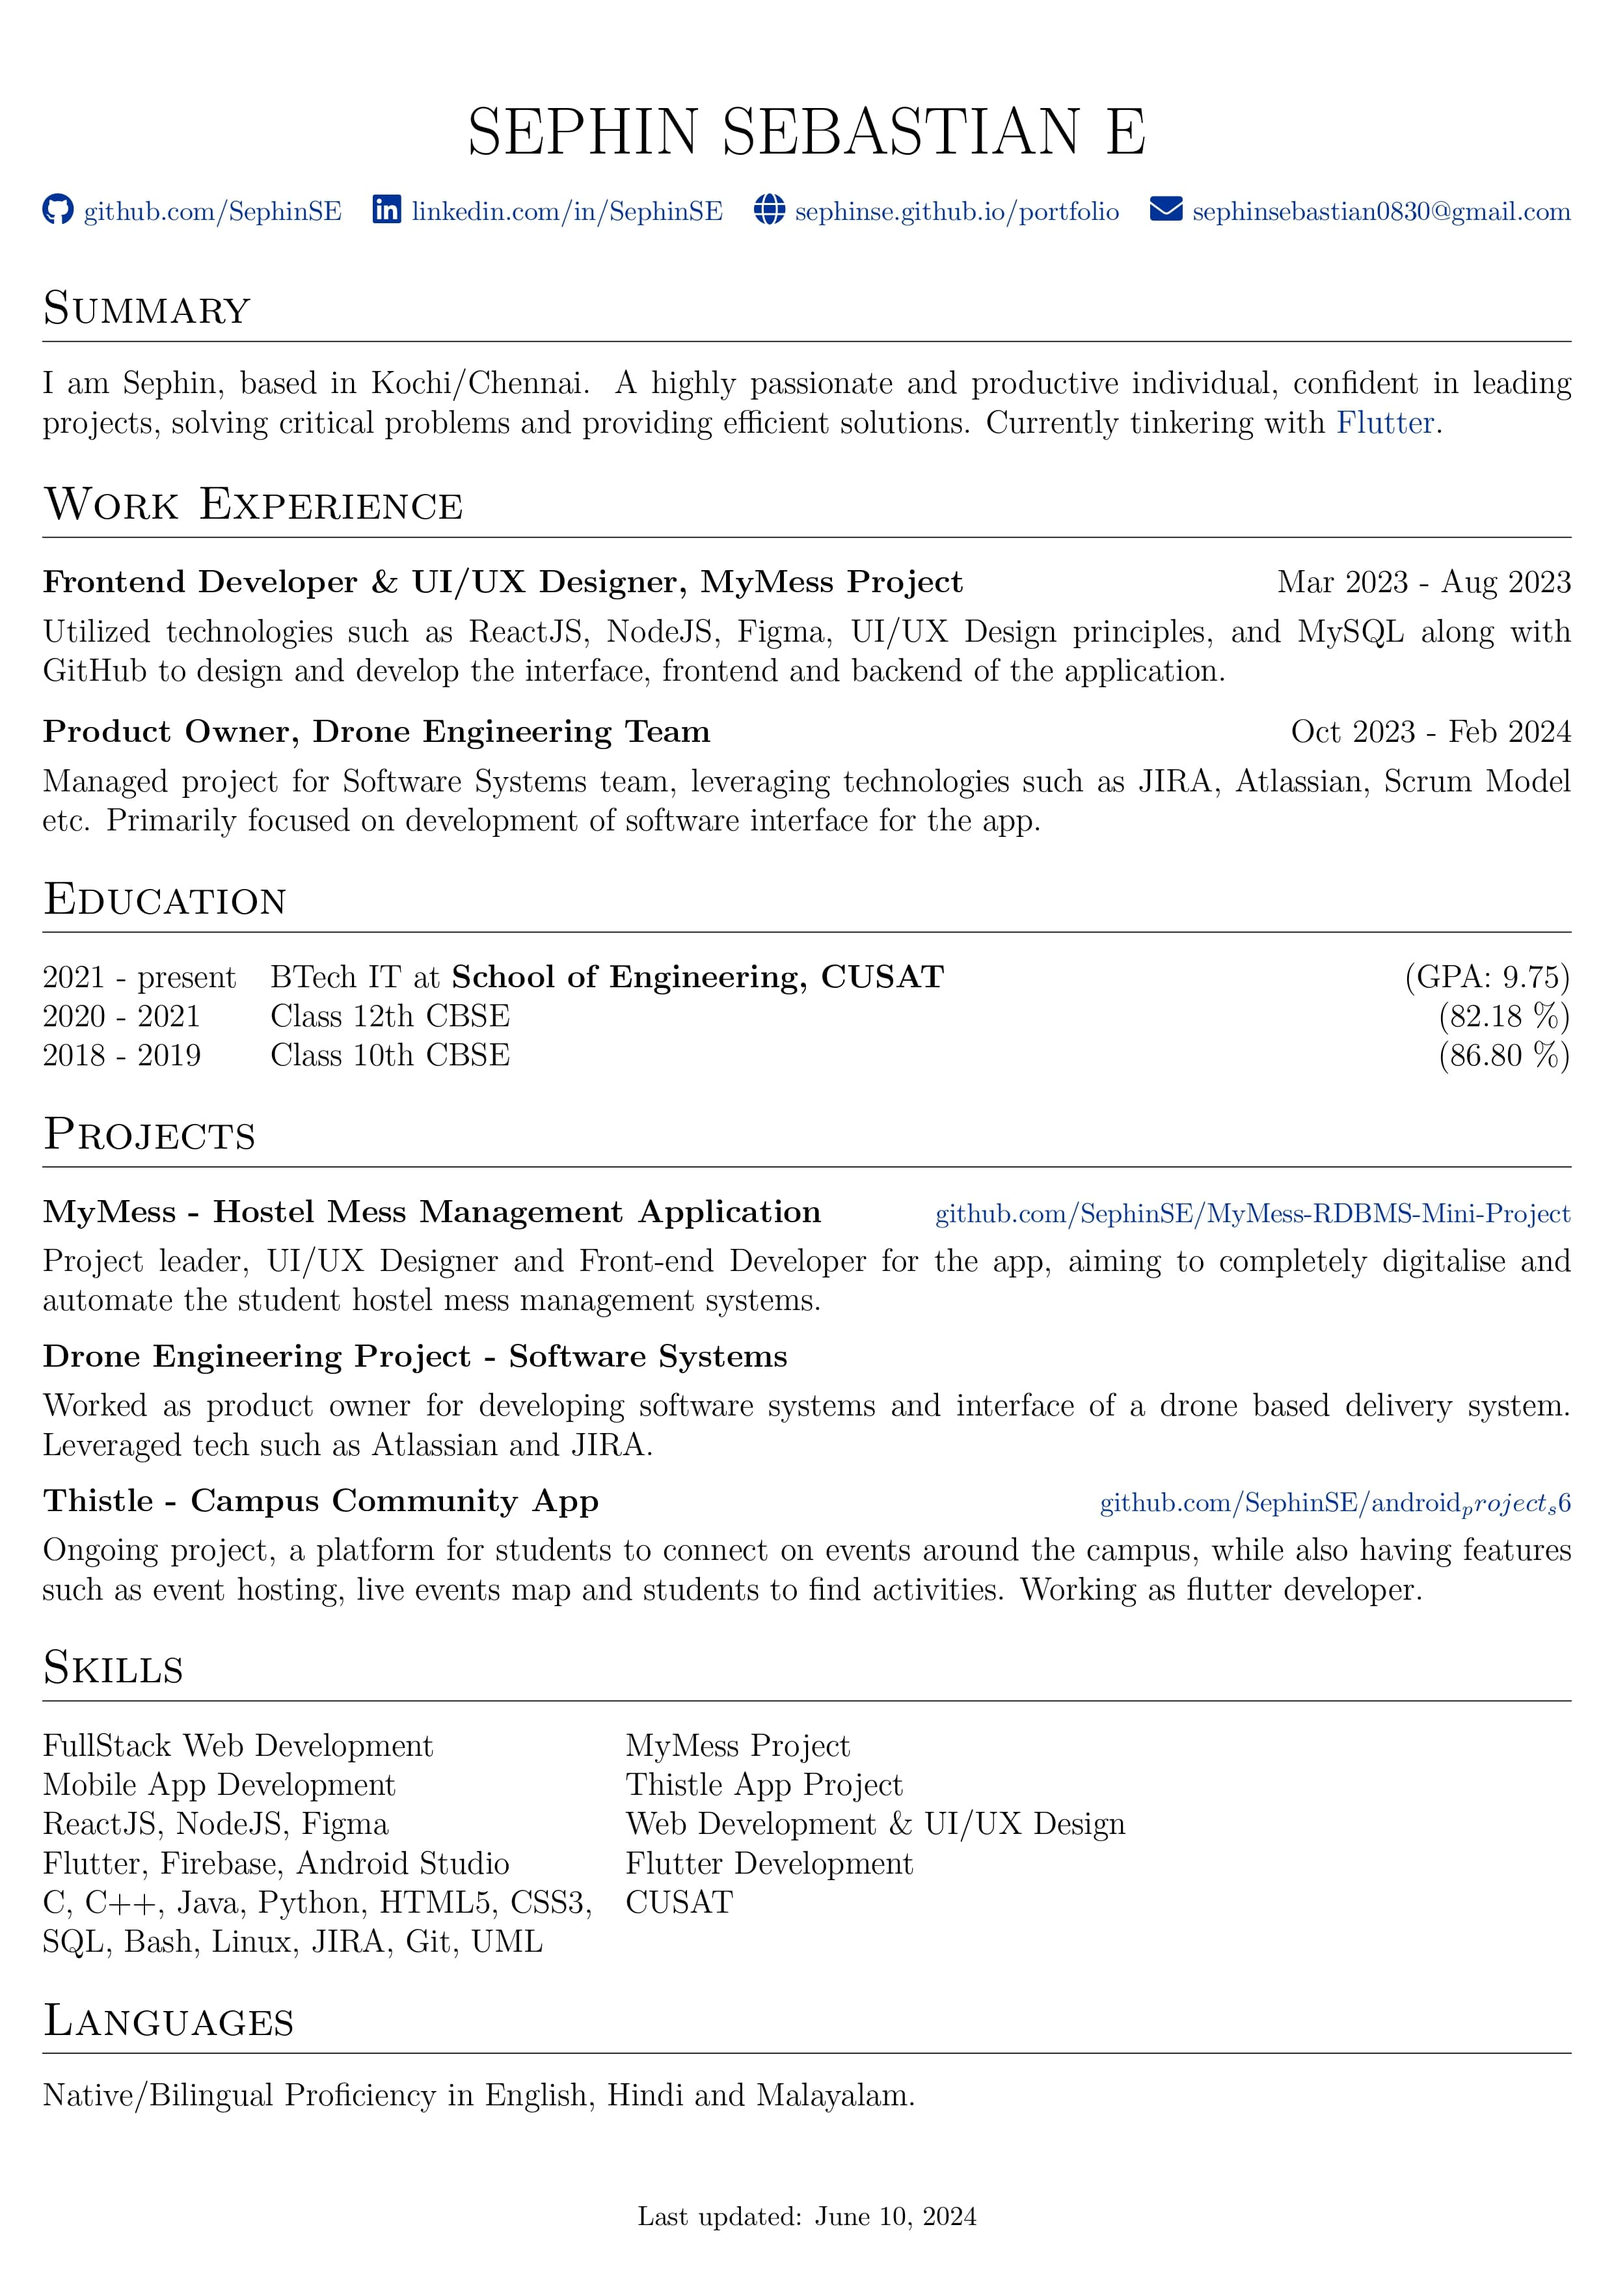
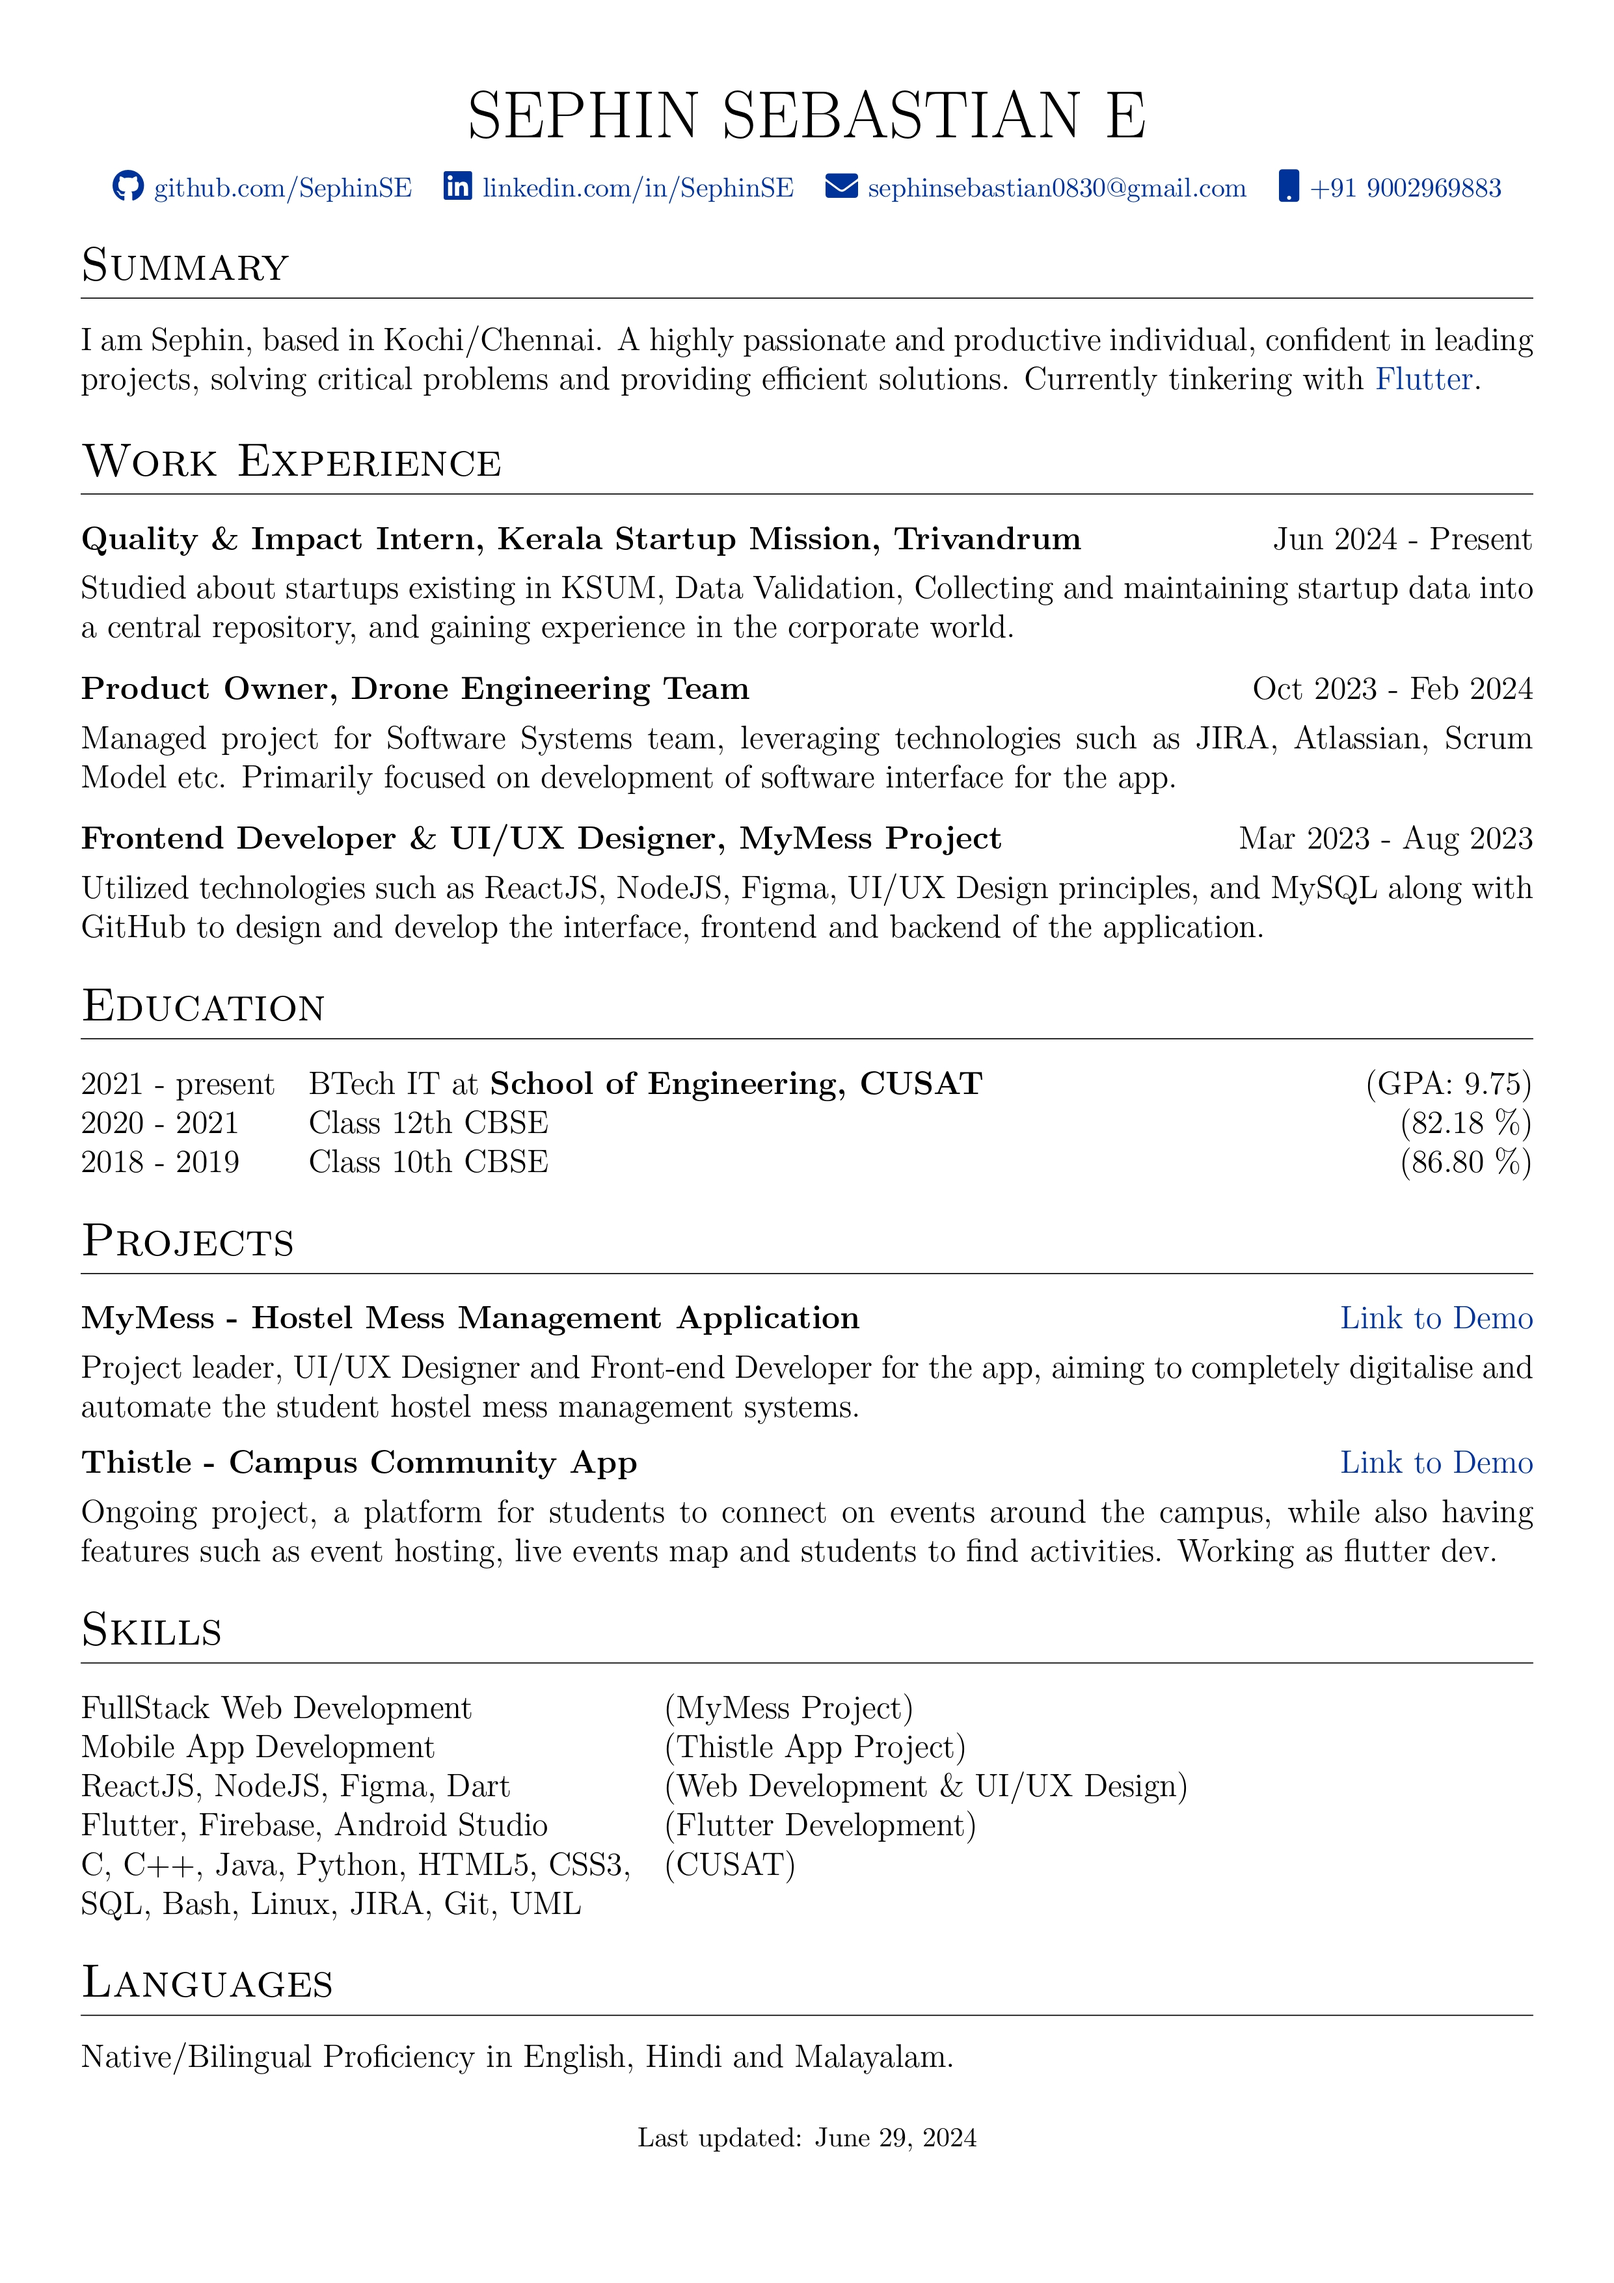
12: resume updated

diff --git a/flutter_service_worker.js b/flutter_service_worker.js
@@ -11,7 +11,7 @@ const RESOURCES = {"assets/AssetManifest.bin": "af70fcec780330ba001c7e207d4d523a
 "assets/assets/project02.jpg": "64872891834fbdd18e58c0385b2ba4cd",
 "assets/assets/project03.jpg": "b85ae68c7497683d7254113490bcff9e",
 "assets/assets/project04.jpg": "36fbae7a338879eeca36381c15857528",
-"assets/assets/resume.jpg": "4c57bc65d6ca453f8b9090abc1d8a045",
+"assets/assets/resume.jpg": "89d122890827190a7e005a334950fa79",
 "assets/assets/sephinseTEX.pdf": "c94975cdae4b4a9682433922de436df8",
 "assets/FontManifest.json": "2f8568e785b355ad59bd8d807fdb6883",
 "assets/fonts/MaterialIcons-Regular.otf": "8d5ca040f7a9afeaf7a104d5039041f6",
@@ -41,7 +41,7 @@ const RESOURCES = {"assets/AssetManifest.bin": "af70fcec780330ba001c7e207d4d523a
 "canvaskit/skwasm.wasm": "4051bfc27ba29bf420d17aa0c3a98bce",
 "canvaskit/skwasm.worker.js": "bfb704a6c714a75da9ef320991e88b03",
 "flutter.js": "383e55f7f3cce5be08fcf1f3881f585c",
-"flutter_bootstrap.js": "63c05cf83b106e76e2e63f434aa51a6e",
+"flutter_bootstrap.js": "256b1c023513b257319afcae9bd6cfd3",
 "icons/android-icon-144x144.png": "3317075dedb693c76fa64614fe026c4f",
 "icons/android-icon-192x192.png": "58709fbdeaff0f4a0162978c23701674",
 "icons/android-icon-36x36.png": "2f18ce949175f82a6cd77ba2a6dc971a",
@@ -70,7 +70,7 @@ const RESOURCES = {"assets/AssetManifest.bin": "af70fcec780330ba001c7e207d4d523a
 "icons/ms-icon-70x70.png": "4f587a8f7d61fbb3c2b487603c3303f8",
 "index.html": "f23fccd805e20fe1fddadbd56c575c32",
 "/": "f23fccd805e20fe1fddadbd56c575c32",
-"main.dart.js": "95e0a74fbc879f22df3bf5f1a9fe0afb",
+"main.dart.js": "f431606a4a04e1c9865fbb3b095ccbb5",
 "manifest.json": "c91bd3c6a487e43e5ea5ec565da5ec98",
 "version.json": "009c9e65172e010890f7f65fde438006"};
 // The application shell files that are downloaded before a service worker can

diff --git a/main.dart.js b/main.dart.js
@@ -63748,7 +63748,7 @@ s=s>25?s:25
 r=o<450?new A.t2(A.rW(p,B.iK,q,q),q):A.rW(p,B.iK,q,q)
 return A.Ej(m,B.bx,new A.ES(new A.c4(new A.aT(s,s,s,s),r,q),q),q)}}
 A.ZG.prototype={
-$0(){A.ze(A.eL("https://drive.usercontent.google.com/u/0/uc?id=1jUJUYqyMXm6DgUKrbkLNJPa9jcV7_Jyv&export=download",0,null))},
+$0(){A.ze(A.eL("https://drive.usercontent.google.com/u/0/uc?id=1AhDHmbbHlqsms5_g4QphtYqRX51D-hhE&export=download",0,null))},
 $S:0}
 A.hE.prototype={}
 A.oJ.prototype={

diff --git a/index.html b/index.html
@@ -48,7 +48,7 @@
       display: flex;
       justify-content: center; /* horizontally center */
       align-items: center; /* vertically center */
-      height: 97vh; /* make container full height of viewport */
+      height: 100vh; /* make container full height of viewport */
     }
 
     .loader {

diff --git a/flutter_bootstrap.js b/flutter_bootstrap.js
@@ -11,6 +11,6 @@ _flutter.buildConfig = {"engineRevision":"edd8546116457bdf1c5bdfb13ecb9463d2bb5e
 
 _flutter.loader.load({
   serviceWorkerSettings: {
-    serviceWorkerVersion: "946053832"
+    serviceWorkerVersion: "1931716793"
   }
 });
